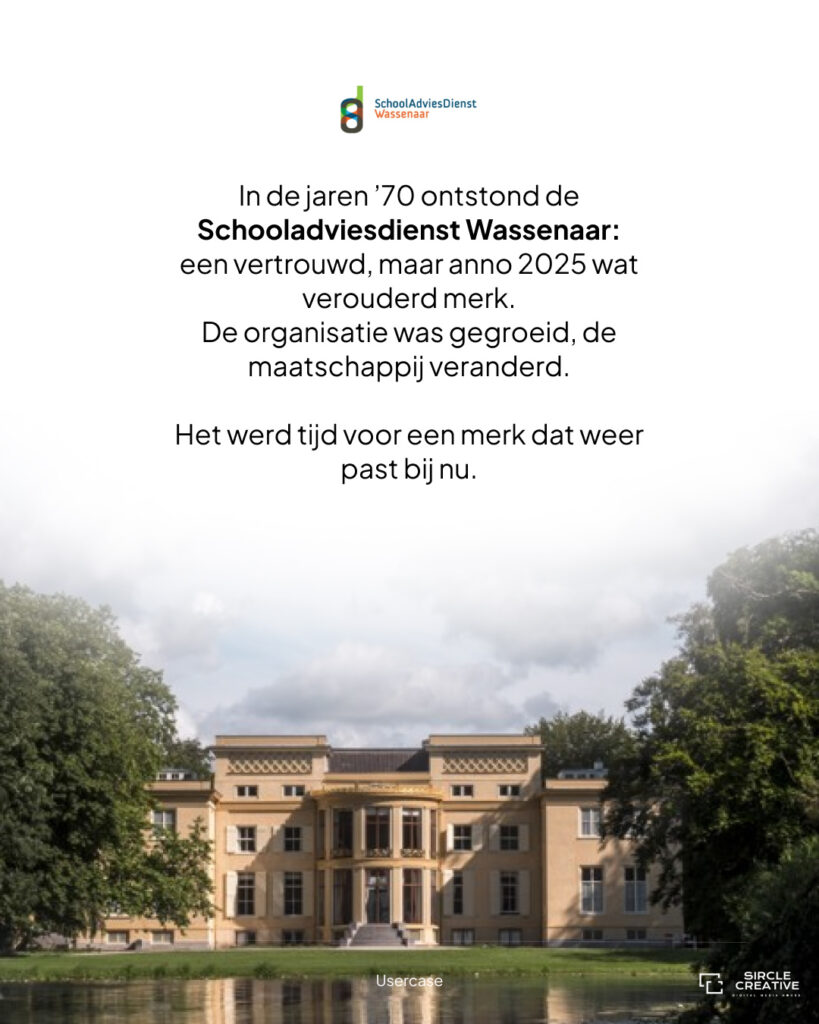
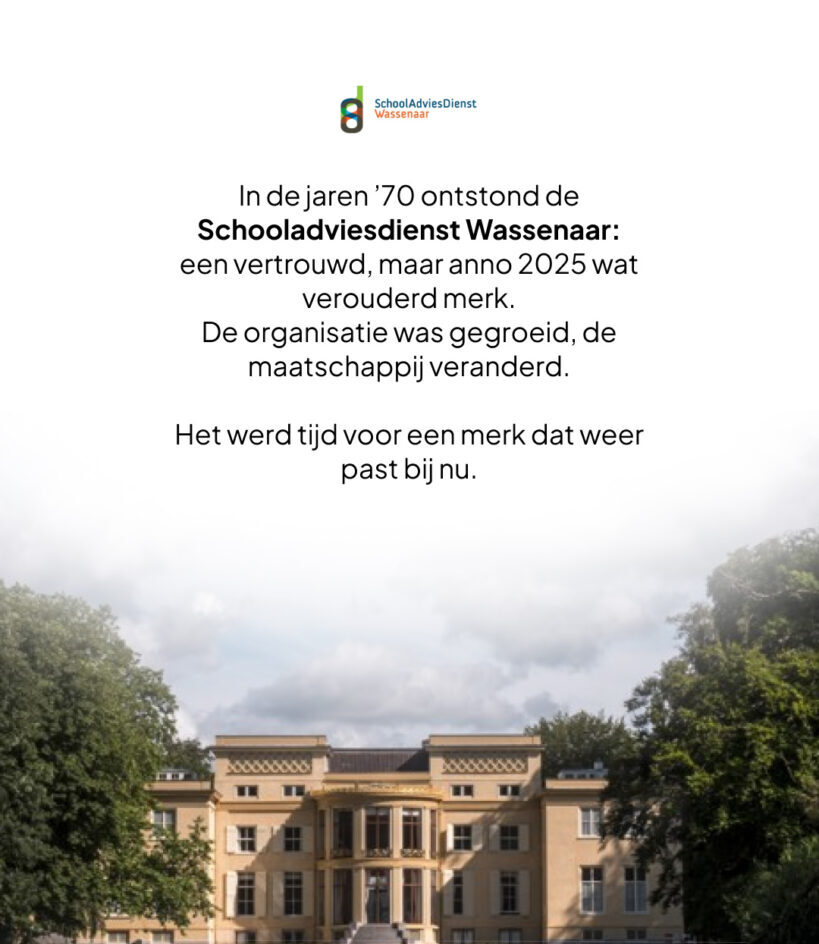
Kanslokaal: tagline-toelichting weg + oude Sircle-watermerk uit usercase mockups gecropt
Tekst: 'letterlijk een lokaal waar kansen ontstaan' uit intro verwijderd.
Visuals: bottom strip (~80px) van usercase-1/2/3 weggesneden — hierop stond
de oude 'SIRCLE CREATIVE / DIGITAL MEDIA HOUSE' watermerk + 'Usercase' label.
Was in 3 mockups, niet 2. Beelden nu 819x944.

diff --git a/werk/kanslokaal.html b/werk/kanslokaal.html
@@ -156,7 +156,7 @@
 
       <div class="case-block reveal-up">
         <p>De Schooladviesdienst Wassenaar bestaat sinds 1979 — onderdeel van de gemeente, actief voor scholen, gemeente én inwoners. Voor de SAD maakten we al jaren animaties en grafisch werk. Toen kwam de grotere vraag: een nieuwe naam, een nieuwe huisstijl, een nieuwe website.</p>
-        <p>Met een kernteam zijn we twee dagen offsite gegaan voor diepgaande DNA-sessies. Vanuit het merkpaspoort ontstond in consensus de naam <strong>Kanslokaal</strong> — <em>letterlijk een lokaal waar kansen ontstaan</em> — met de tagline <em>"Iedereen een stap vooruit."</em> Een organisatie van bijna een halve eeuw oud kreeg een naam die past bij wie ze écht zijn: niet alleen schoolgebonden, maar voor de hele gemeenschap.</p>
+        <p>Met een kernteam zijn we twee dagen offsite gegaan voor diepgaande DNA-sessies. Vanuit het merkpaspoort ontstond in consensus de naam <strong>Kanslokaal</strong>, met de tagline <em>"Iedereen een stap vooruit."</em> Een organisatie van bijna een halve eeuw oud kreeg een naam die past bij wie ze écht zijn: niet alleen schoolgebonden, maar voor de hele gemeenschap.</p>
       </div>
 
       <div class="case-tags-row reveal-up">
